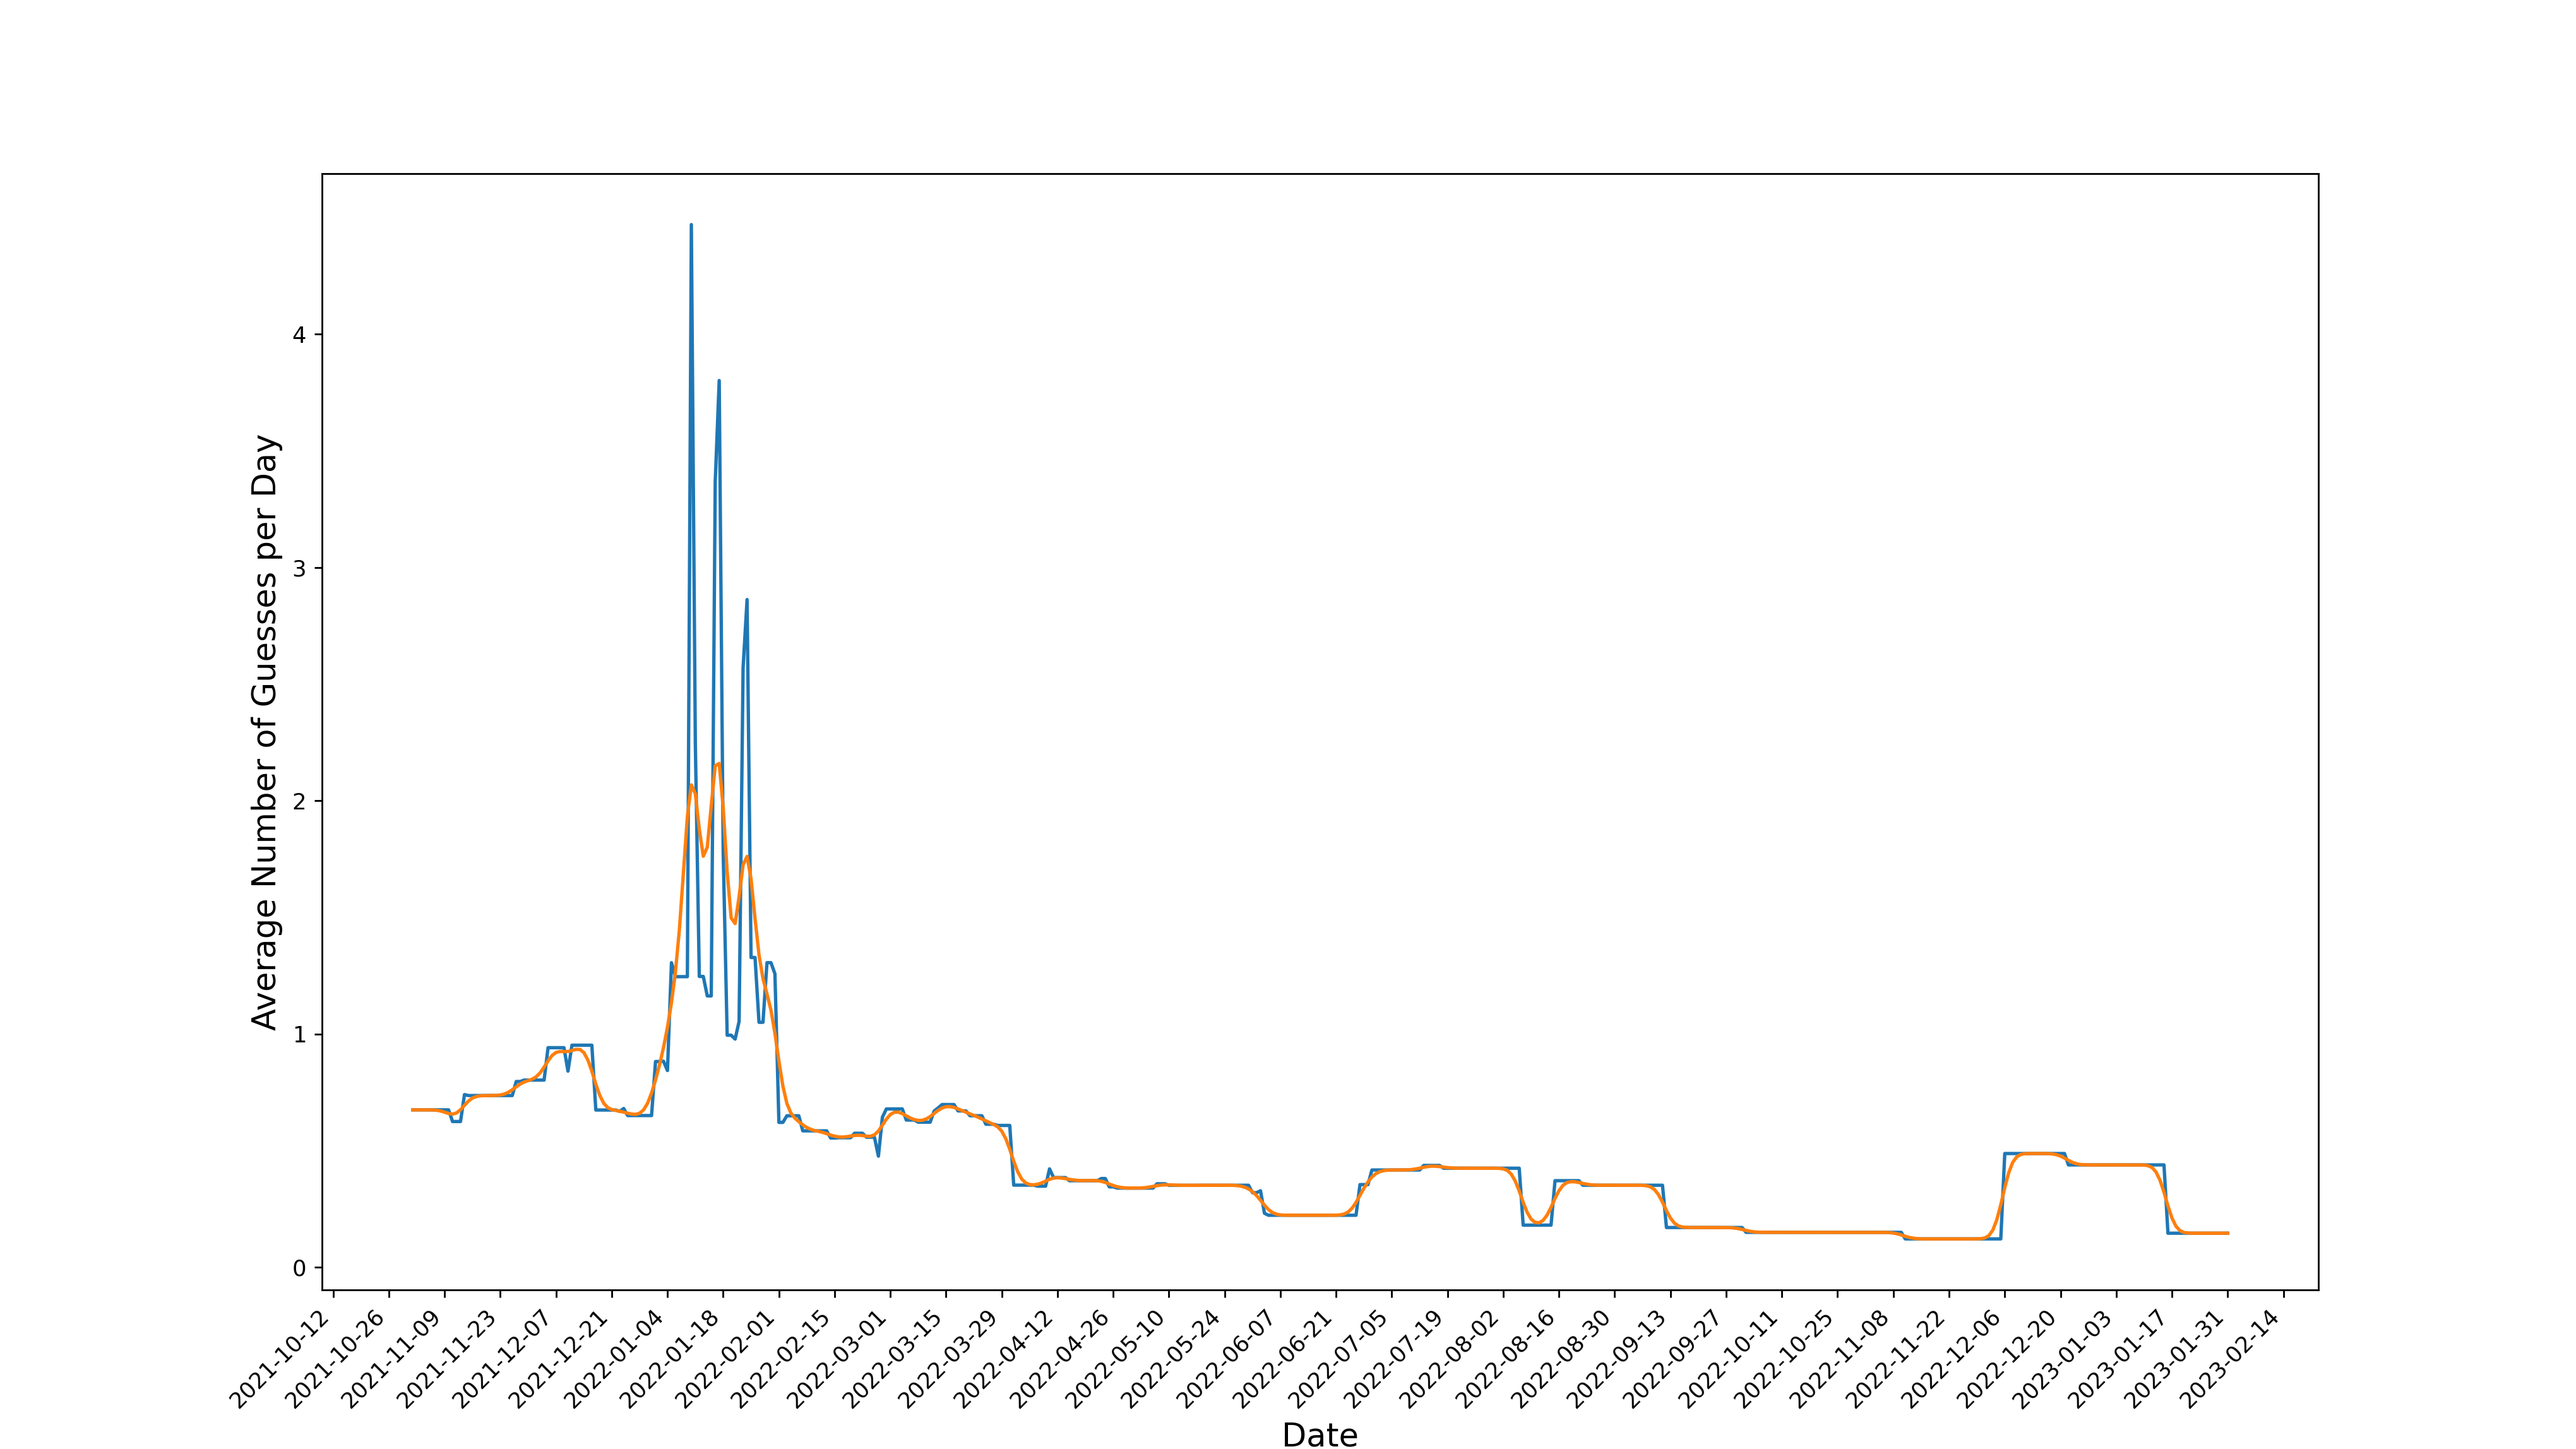
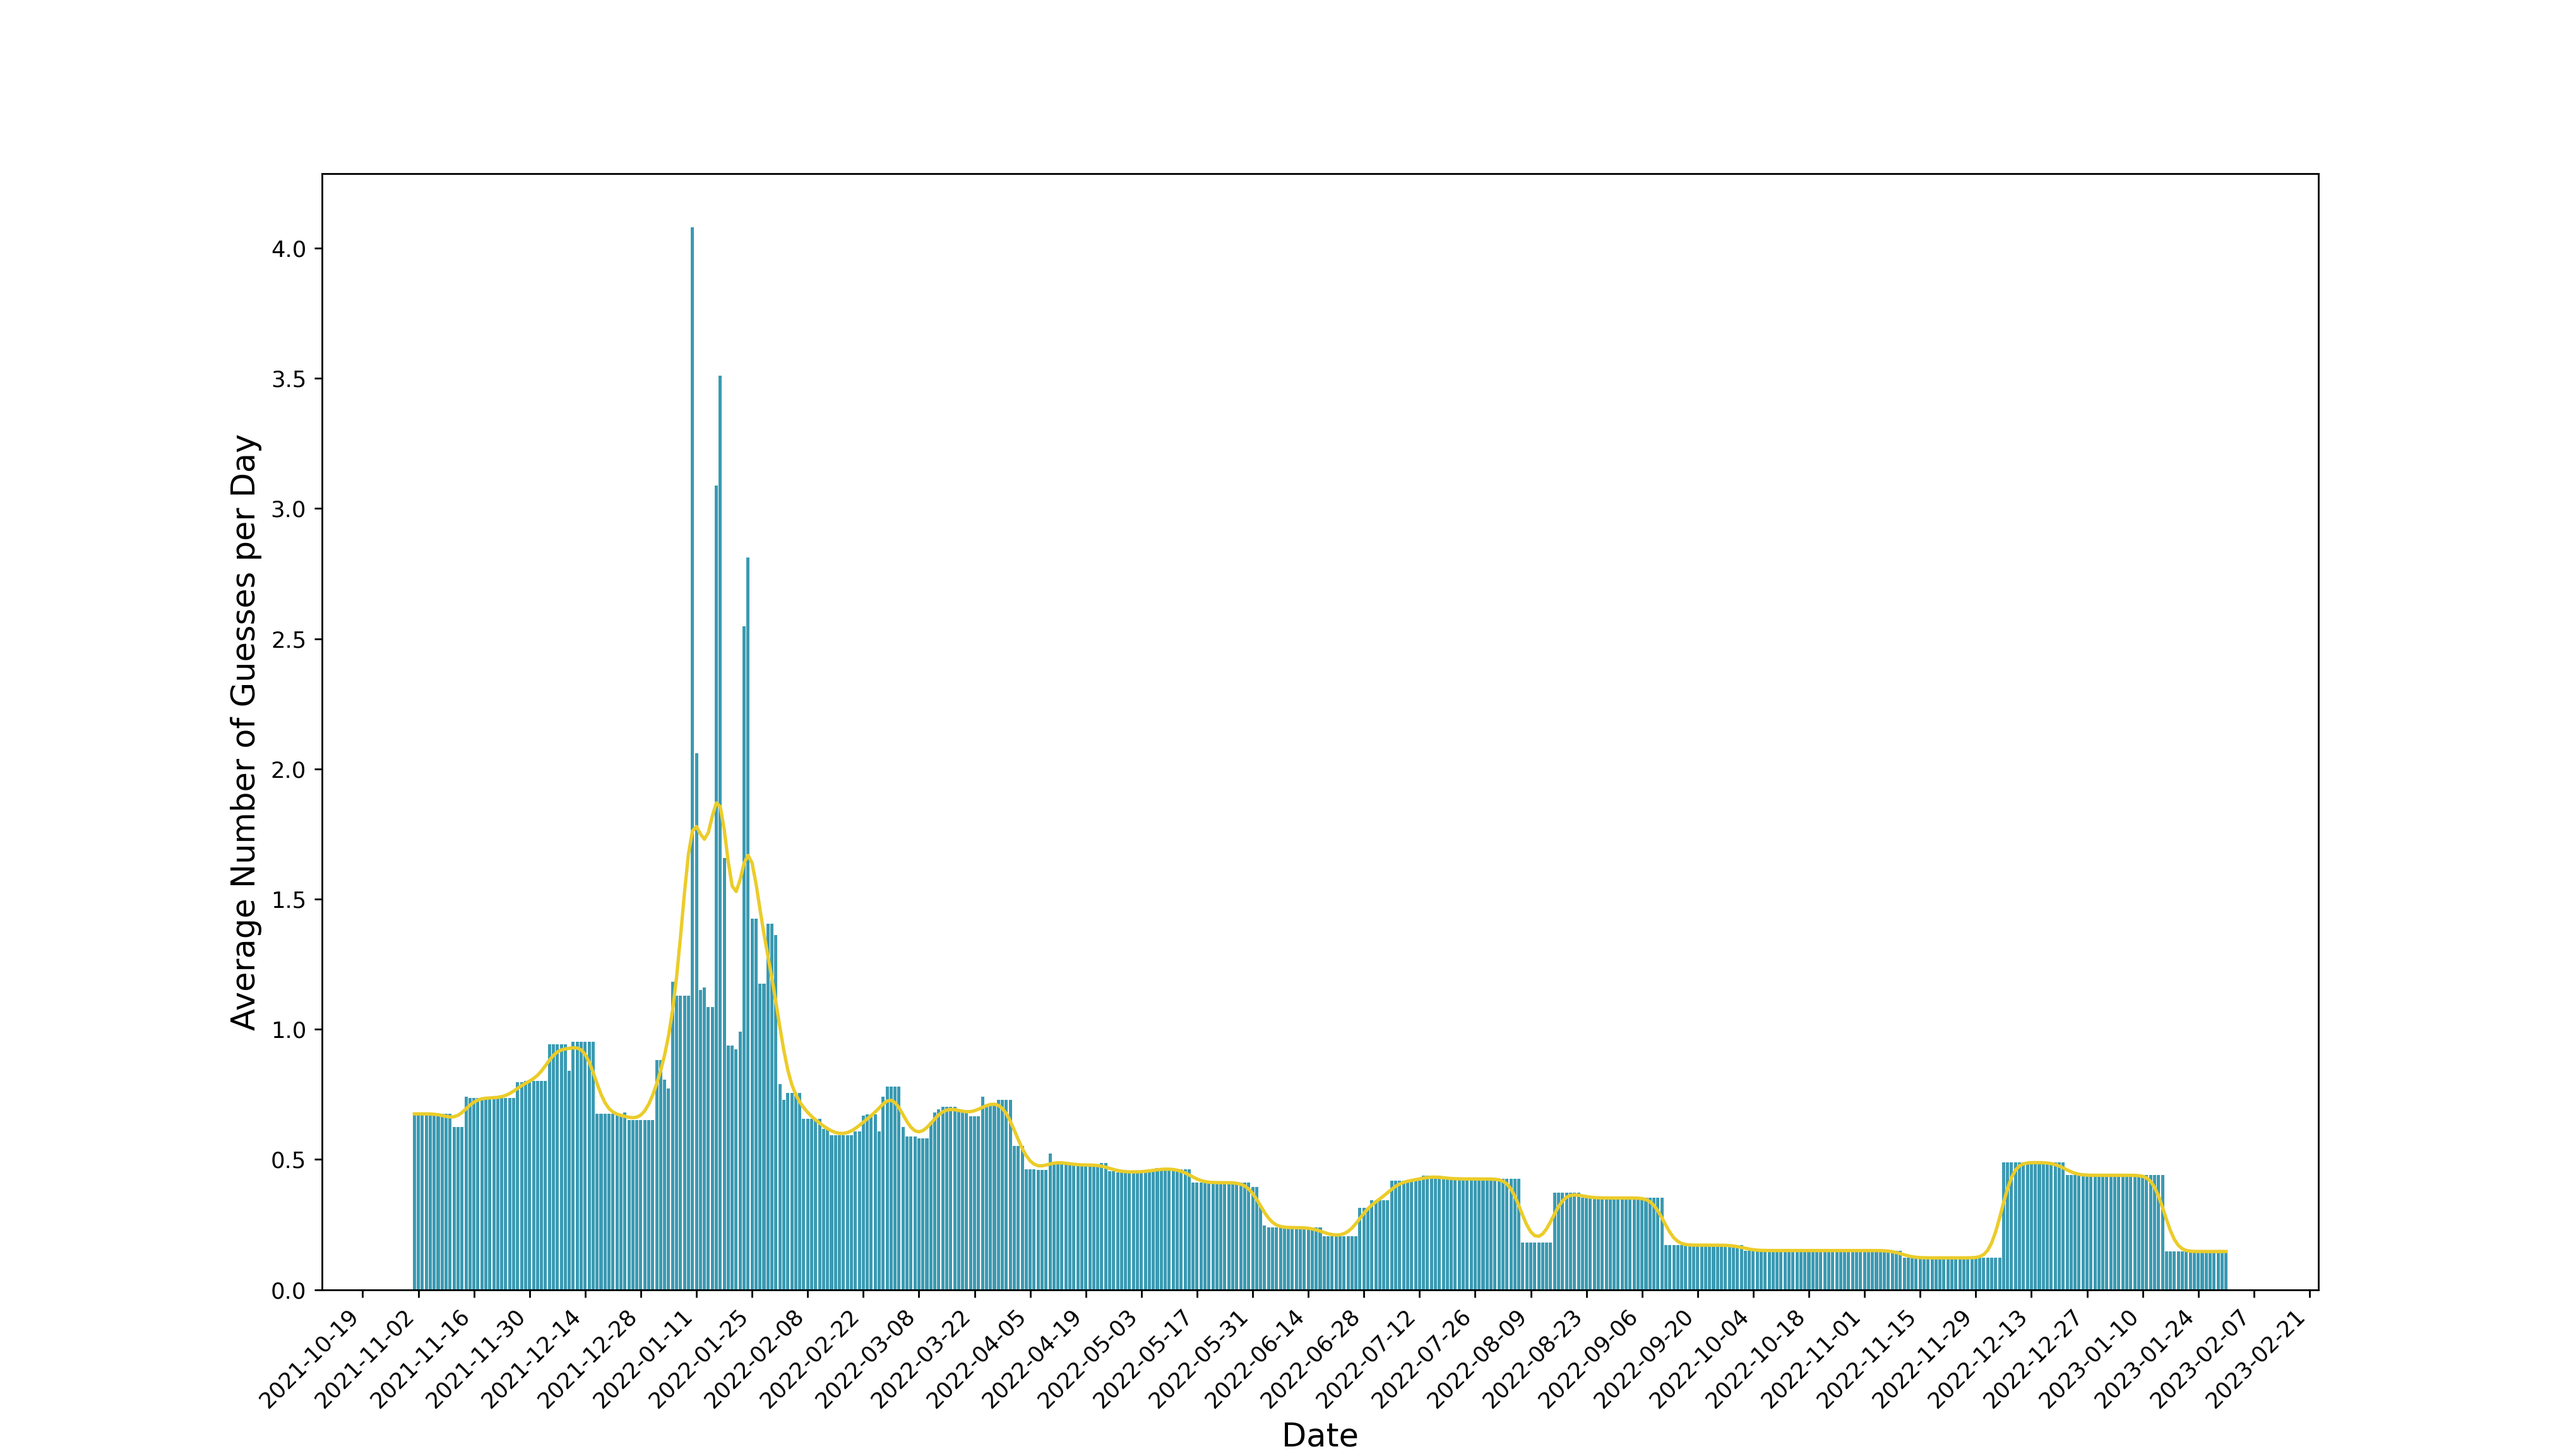
some more plot hacking

Changed region(s): [[0.0934, 0.2475, 0.9027, 0.99], [0.0934, 0.3094, 0.1245, 0.7115]]

diff --git a/bin/agg.py b/bin/agg.py
@@ -9,6 +9,7 @@ import os
 import datetime
 import wes
 
+wes.set_palette('Zissou1')
 
 DB = dataset.connect(os.environ['DATABASE_URL'].replace('postgres://', 'postgresql://'))
 
@@ -54,11 +55,11 @@ if __name__ == '__main__':
 
     finaldist = bigdf.mean(axis=1)
     mpl_date = DateFormatter("%Y-%m-%d")
-    smoothbrain = gaussian_filter1d(finaldist, sigma=2)
+    smoothbrain = gaussian_filter1d(finaldist, sigma=2.5)
     smoothbrain = pd.Series(index=finaldist.index, data=smoothbrain)
     fig, ax = plt.subplots(figsize=(16, 9))
-    sns.lineplot(data=finaldist)
-    sns.lineplot(data=smoothbrain)
+    ax.bar(finaldist.index, finaldist)
+    ax.plot(smoothbrain.index, smoothbrain, color='C2')
     ax.xaxis.set_major_formatter(mpl_date)
     ax.xaxis.set_major_locator(WeekdayLocator(interval=2))
     plt.xticks(rotation=45, ha='right')
